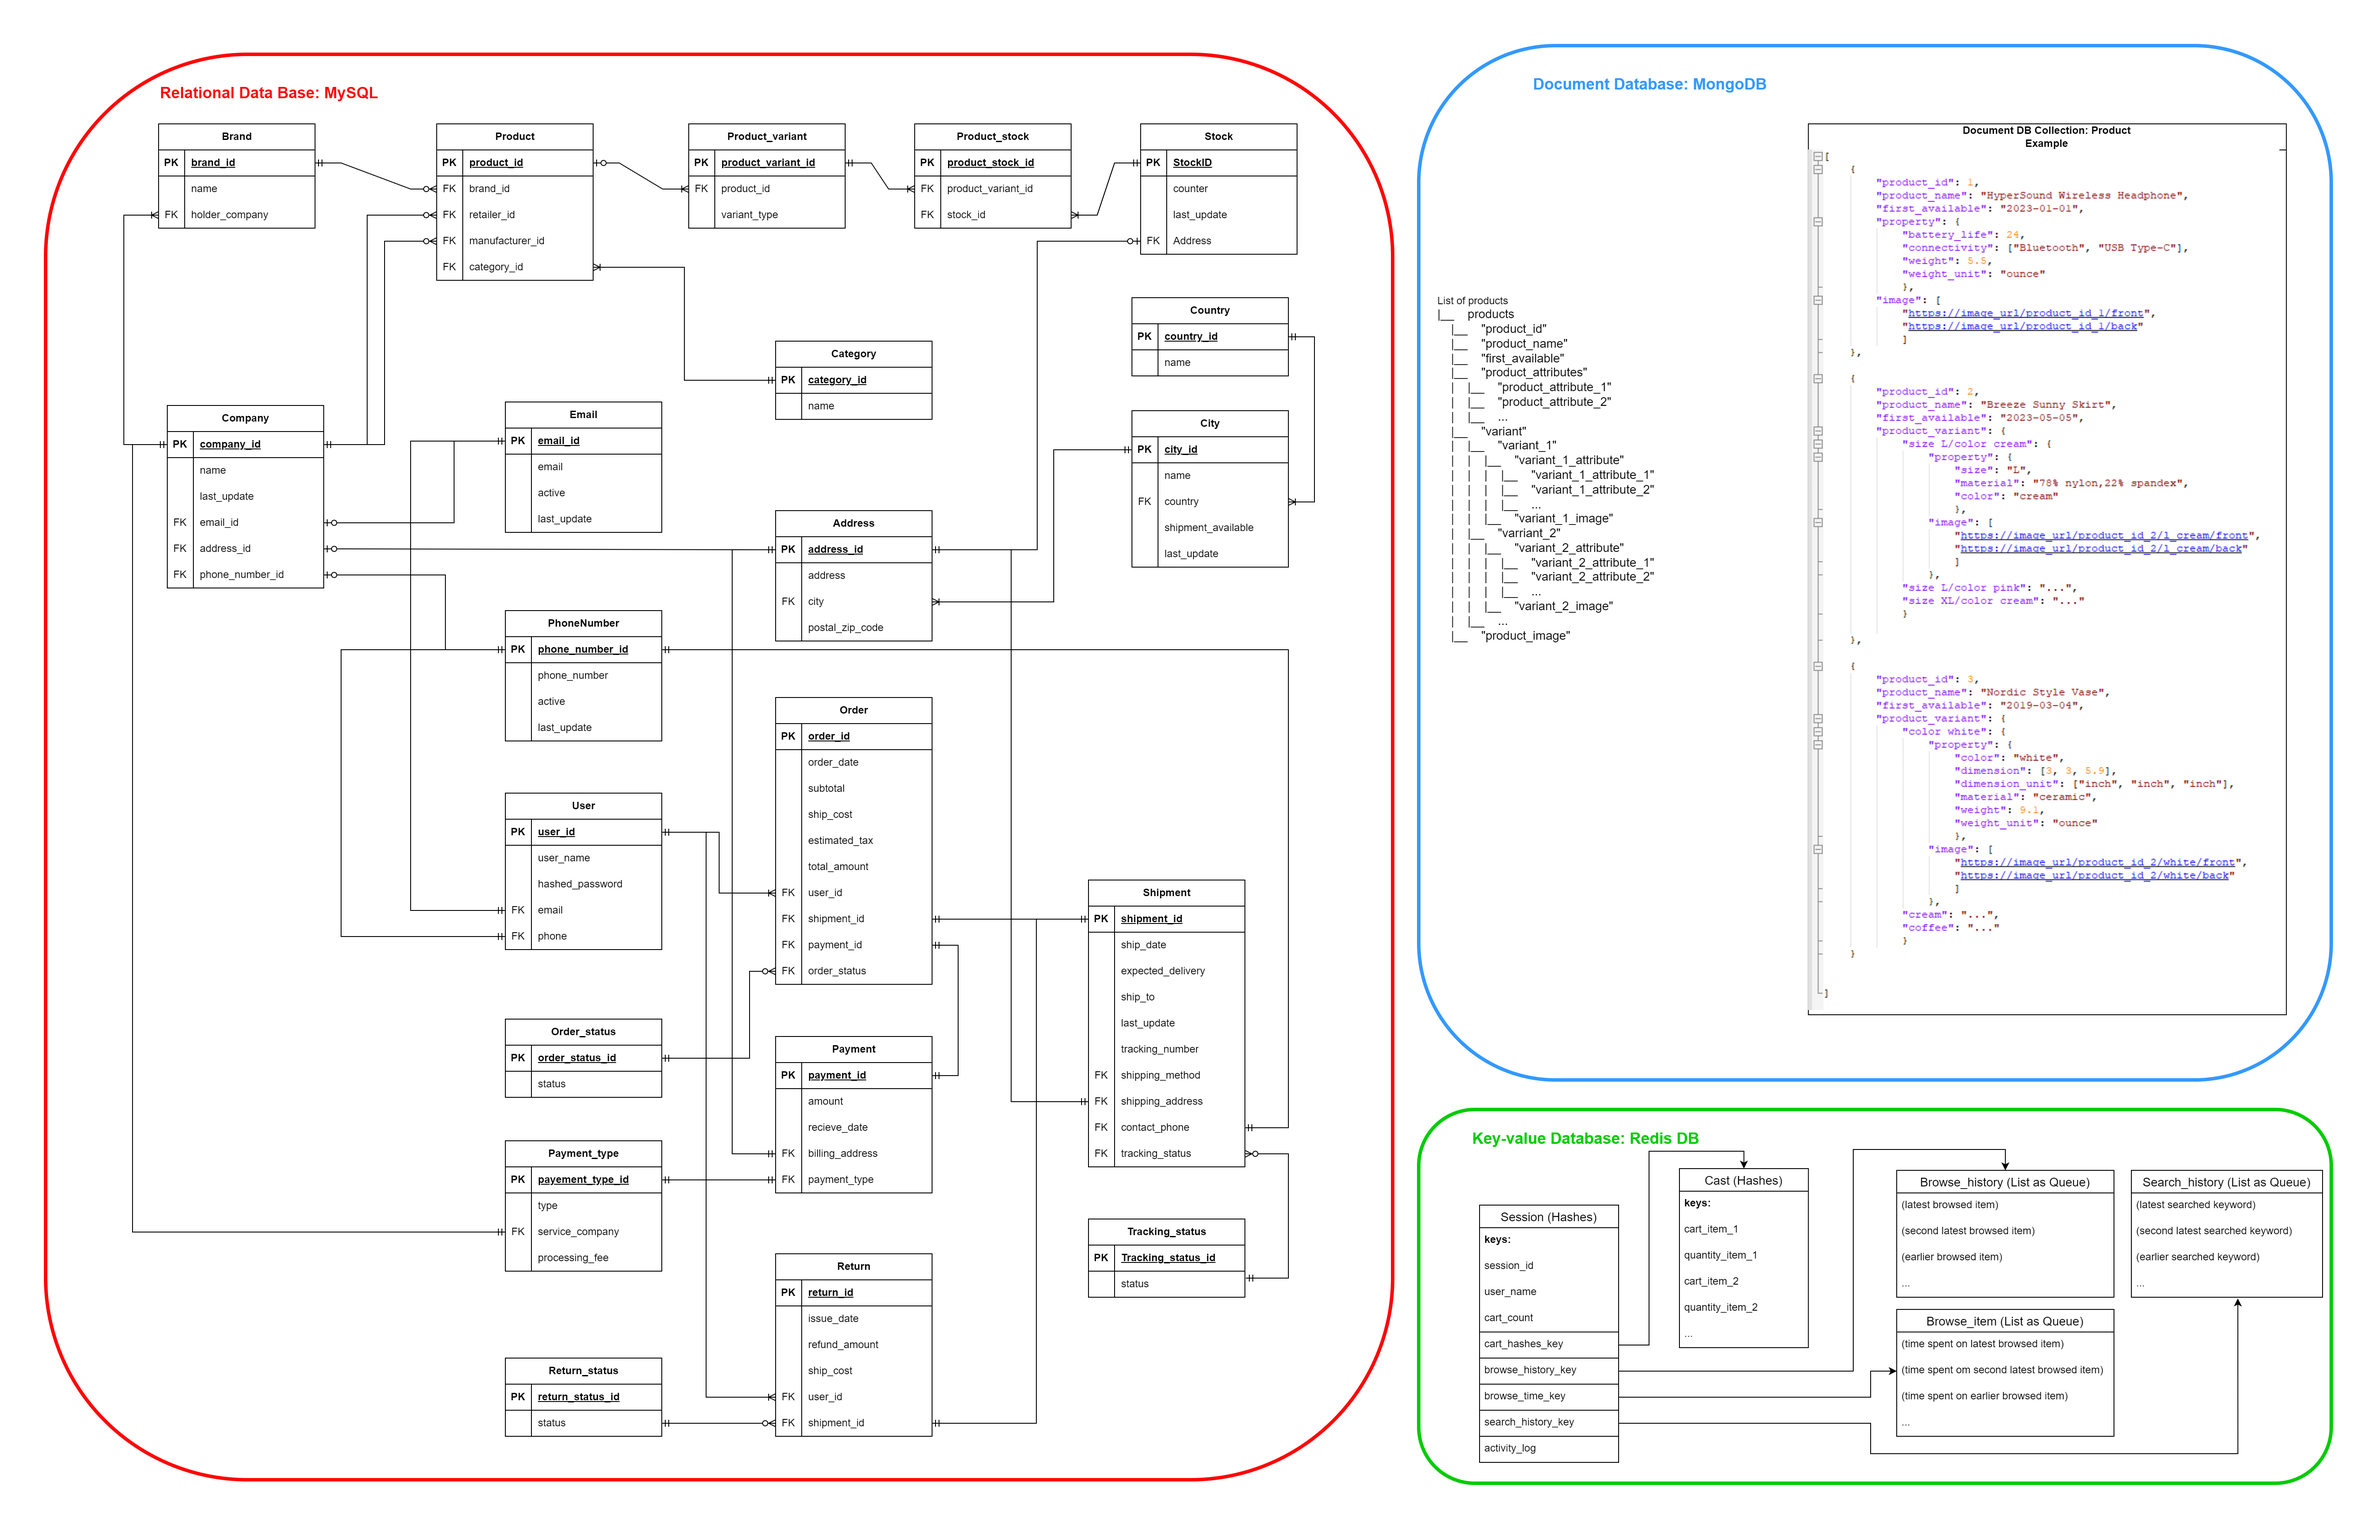
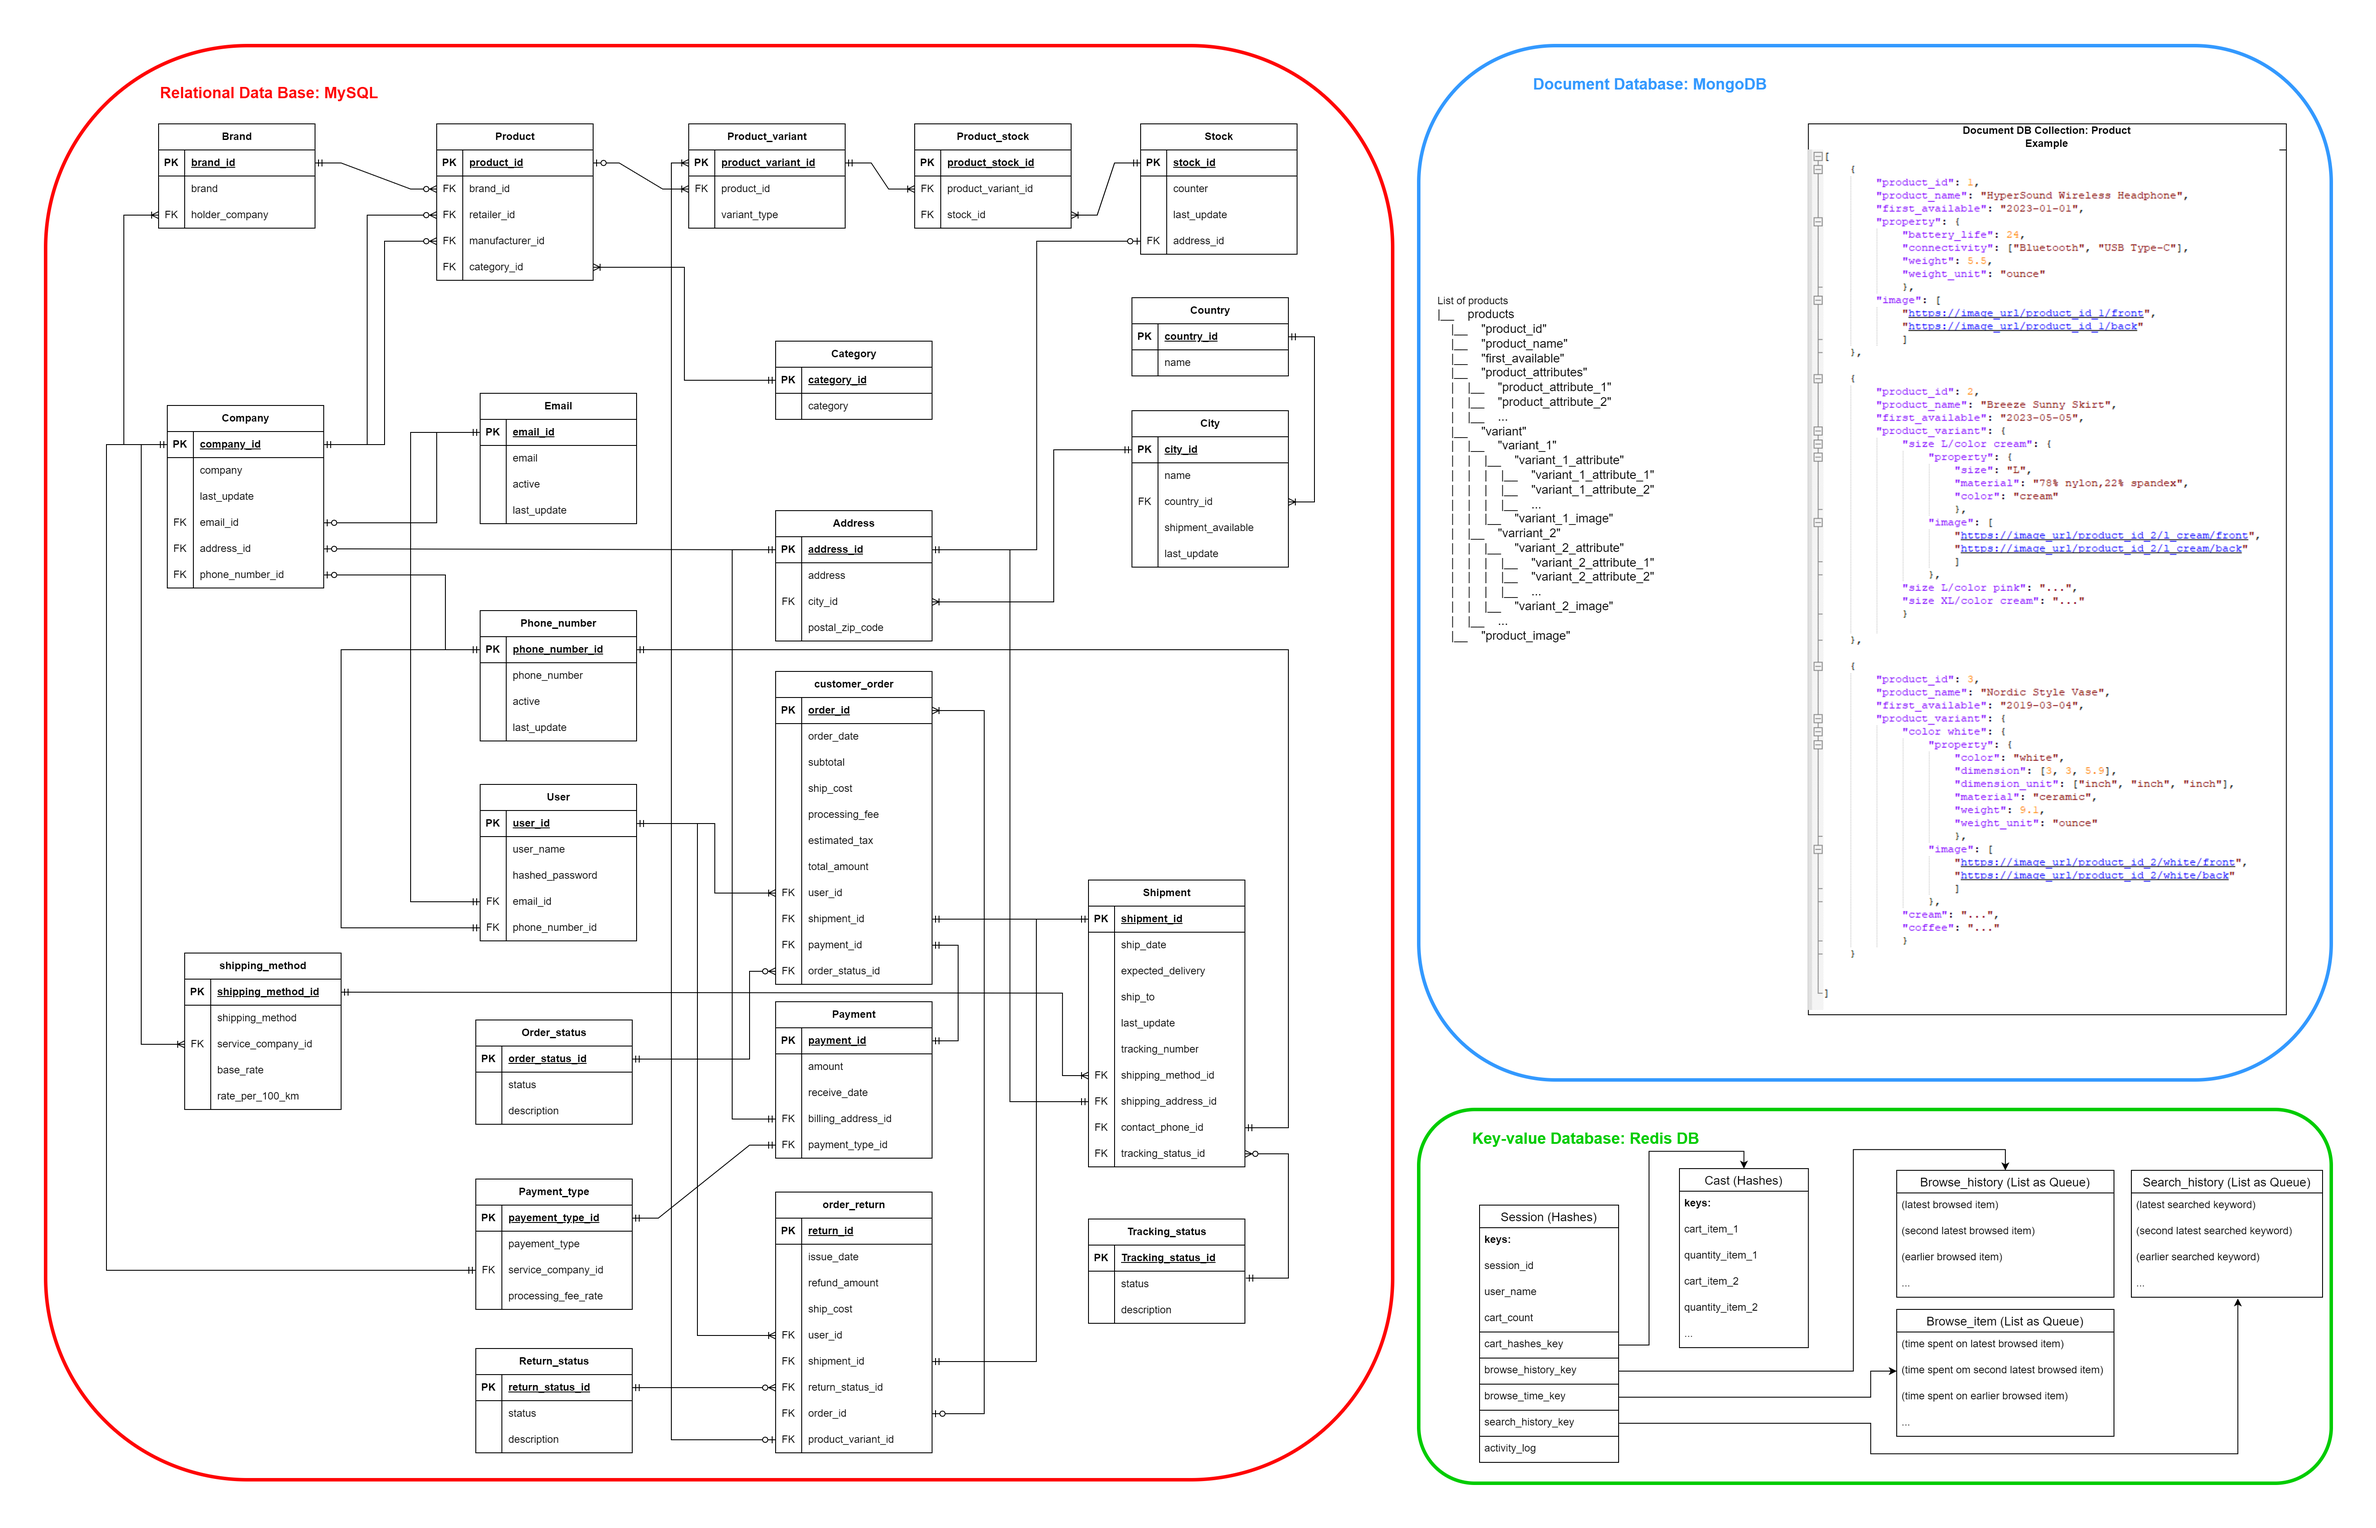
revision 3

diff --git a/README.md b/README.md
@@ -39,4 +39,13 @@ Hybrid DB design with MySQL, MongoDB, and RedisDB
 size, color, etc., adding a product_variant help reduce the data size and minimize redundant data
 
 ### Revision 2 (11-20-2023)
-* Updated RedisDB part to use separate buckets for shopping cart, browsing history, browsing history timer, and searching history
+* Updat RedisDB part to use separate buckets for shopping cart, browsing history, browsing history timer, and searching history
+
+### Revision 3 (11-21-2023)
+* Update Return table from SQL DB
+** add order_id foreign key to associate return with certain order
+** add product_variant_id foreign key to associate return with certain product
+* Update field names in multiple tables to keep consistant
+* Add shipping_method table
+* change table name "order" to "customer_order" to prevent naming conflict with MySQL command
+* change table name "return" to "order_return" to prevent naming conflict with MySQL command
